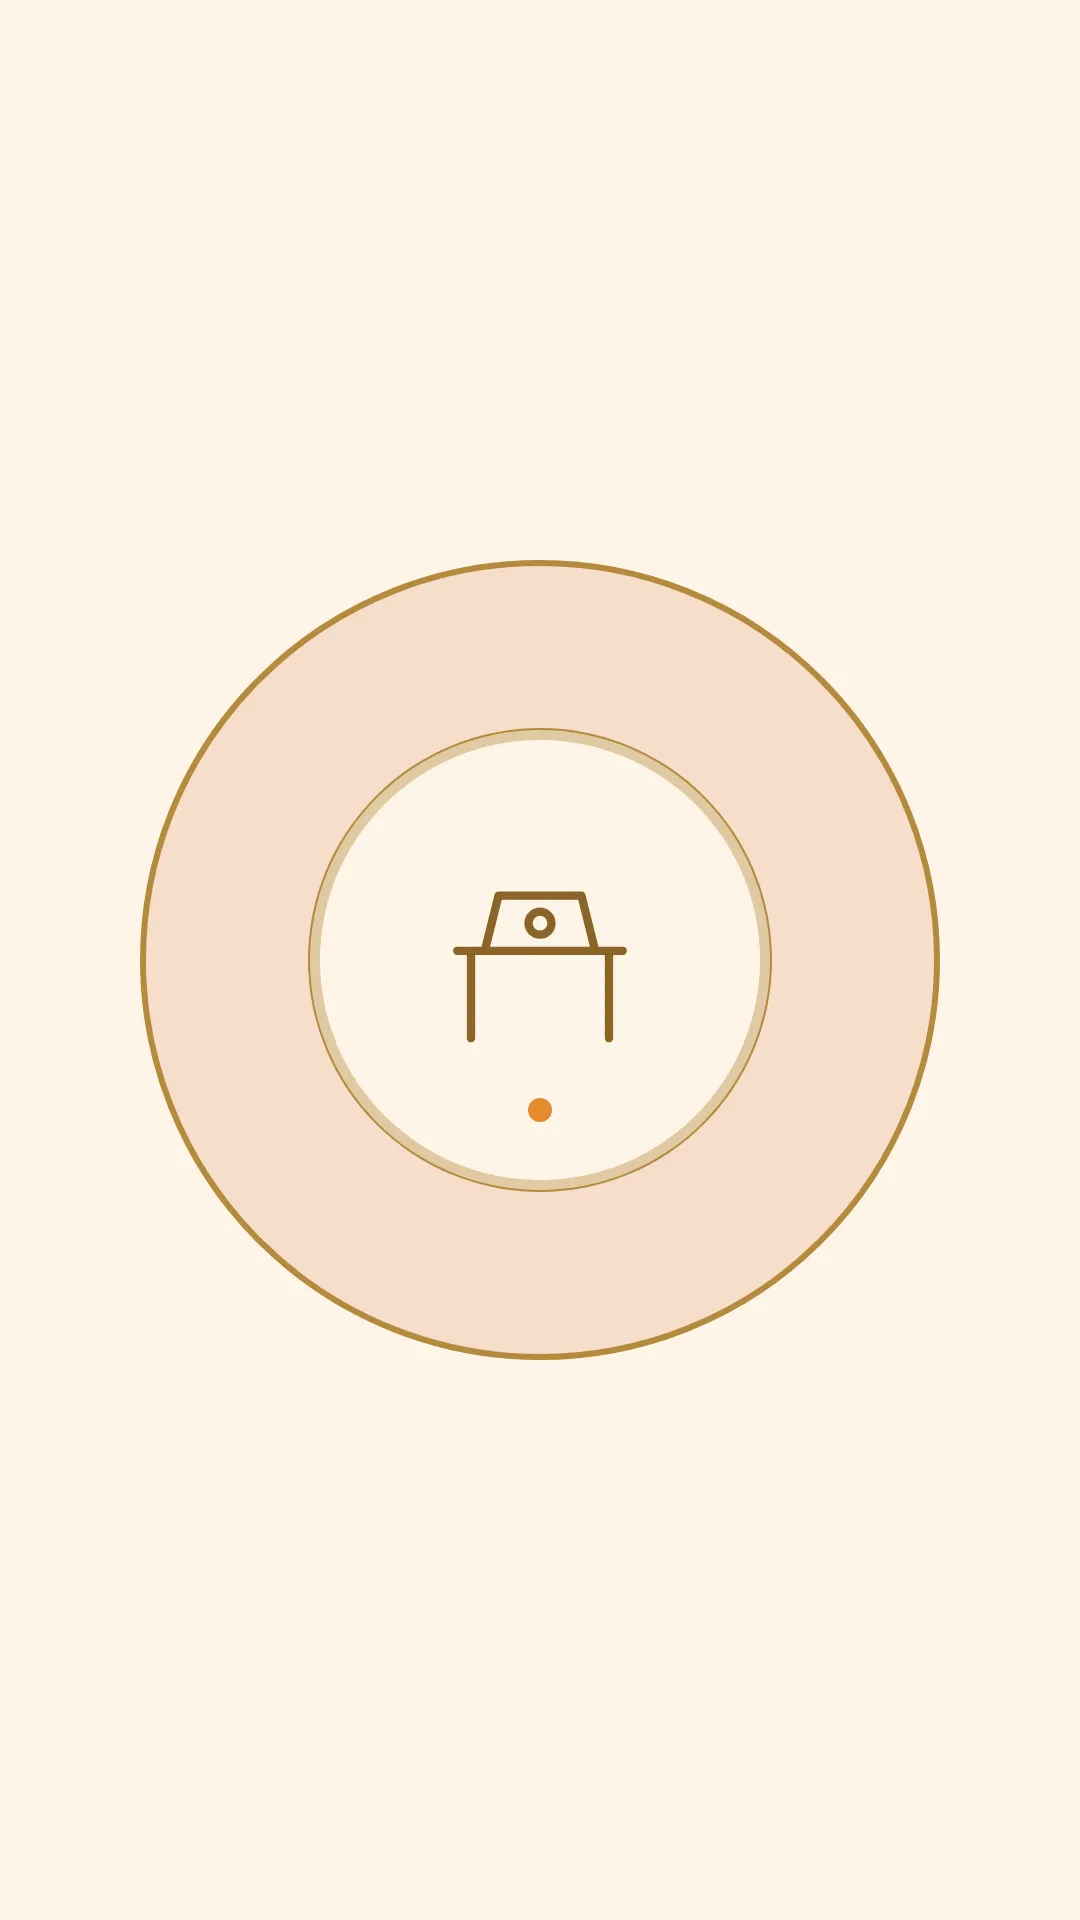
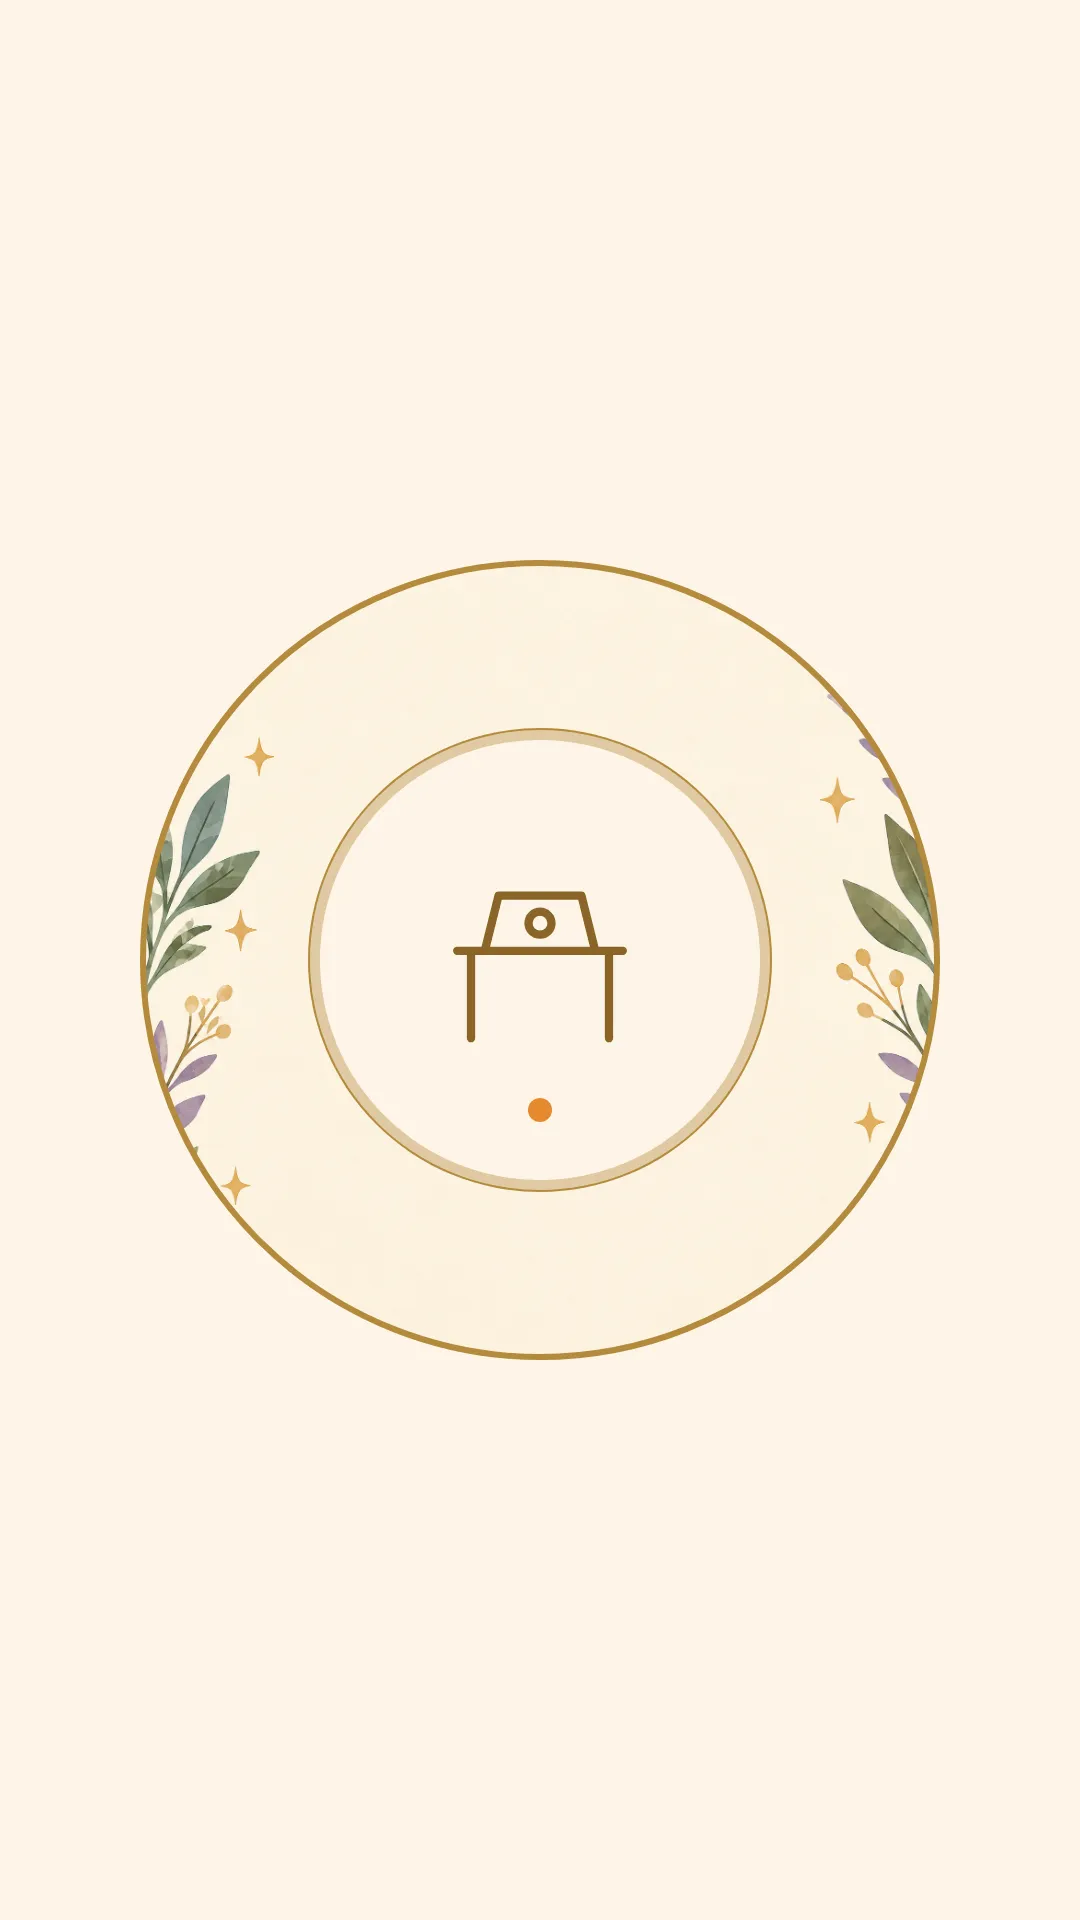
Holistico: Instagram na base do P7 (cartao creme sobre as plantas, bege claro), raios so em 3 pecas (02/11)

Changed region(s): [[0.1222, 0.375, 0.2444, 0.5938], [0.7639, 0.375, 0.8861, 0.5938], [0.2139, 0.5938, 0.2444, 0.625]]

diff --git a/public/excellence/2026-11-02-holistico-instagram/index.html b/public/excellence/2026-11-02-holistico-instagram/index.html
@@ -18,7 +18,7 @@
   <img class="logo" src="logo.png" alt="Excellence Eventos">
   <p class="olho">Material para aprovação · <span id="data"></span></p>
   <h1>Instagram do 5º Encontro Holístico</h1>
-  <p class="intro">O Instagram do Encontro repaginado, agora com mais vida: as cores do perfil de vocês, a foto dentro da mandala do logo e as datas em destaque. Perfil, 7 posts novos (3 fixados no topo), 6 destaques e o carrossel de expositor. As fotos com pessoas são <b>imagens ilustrativas</b>, feitas por IA: quando vocês mandarem fotos das edições anteriores, elas entram no lugar.</p>
+  <p class="intro">O Instagram do Encontro repaginado, agora com mais vida: as plantas e os raios do perfil de vocês, a foto dentro da mandala do logo e as datas em destaque. Perfil, 7 posts novos (3 fixados no topo), 6 destaques e o carrossel de expositor. As fotos com pessoas são <b>imagens ilustrativas</b>, feitas por IA: quando vocês mandarem fotos das edições anteriores, elas entram no lugar.</p>
   <ol class="como">
     <li>Arraste a imagem pro lado pra ver as versões. Toque nela pra ampliar.</li>
     <li>Em cada peça, toque em <b>Aprovado</b> ou <b>Quero mudar</b>.</li>
